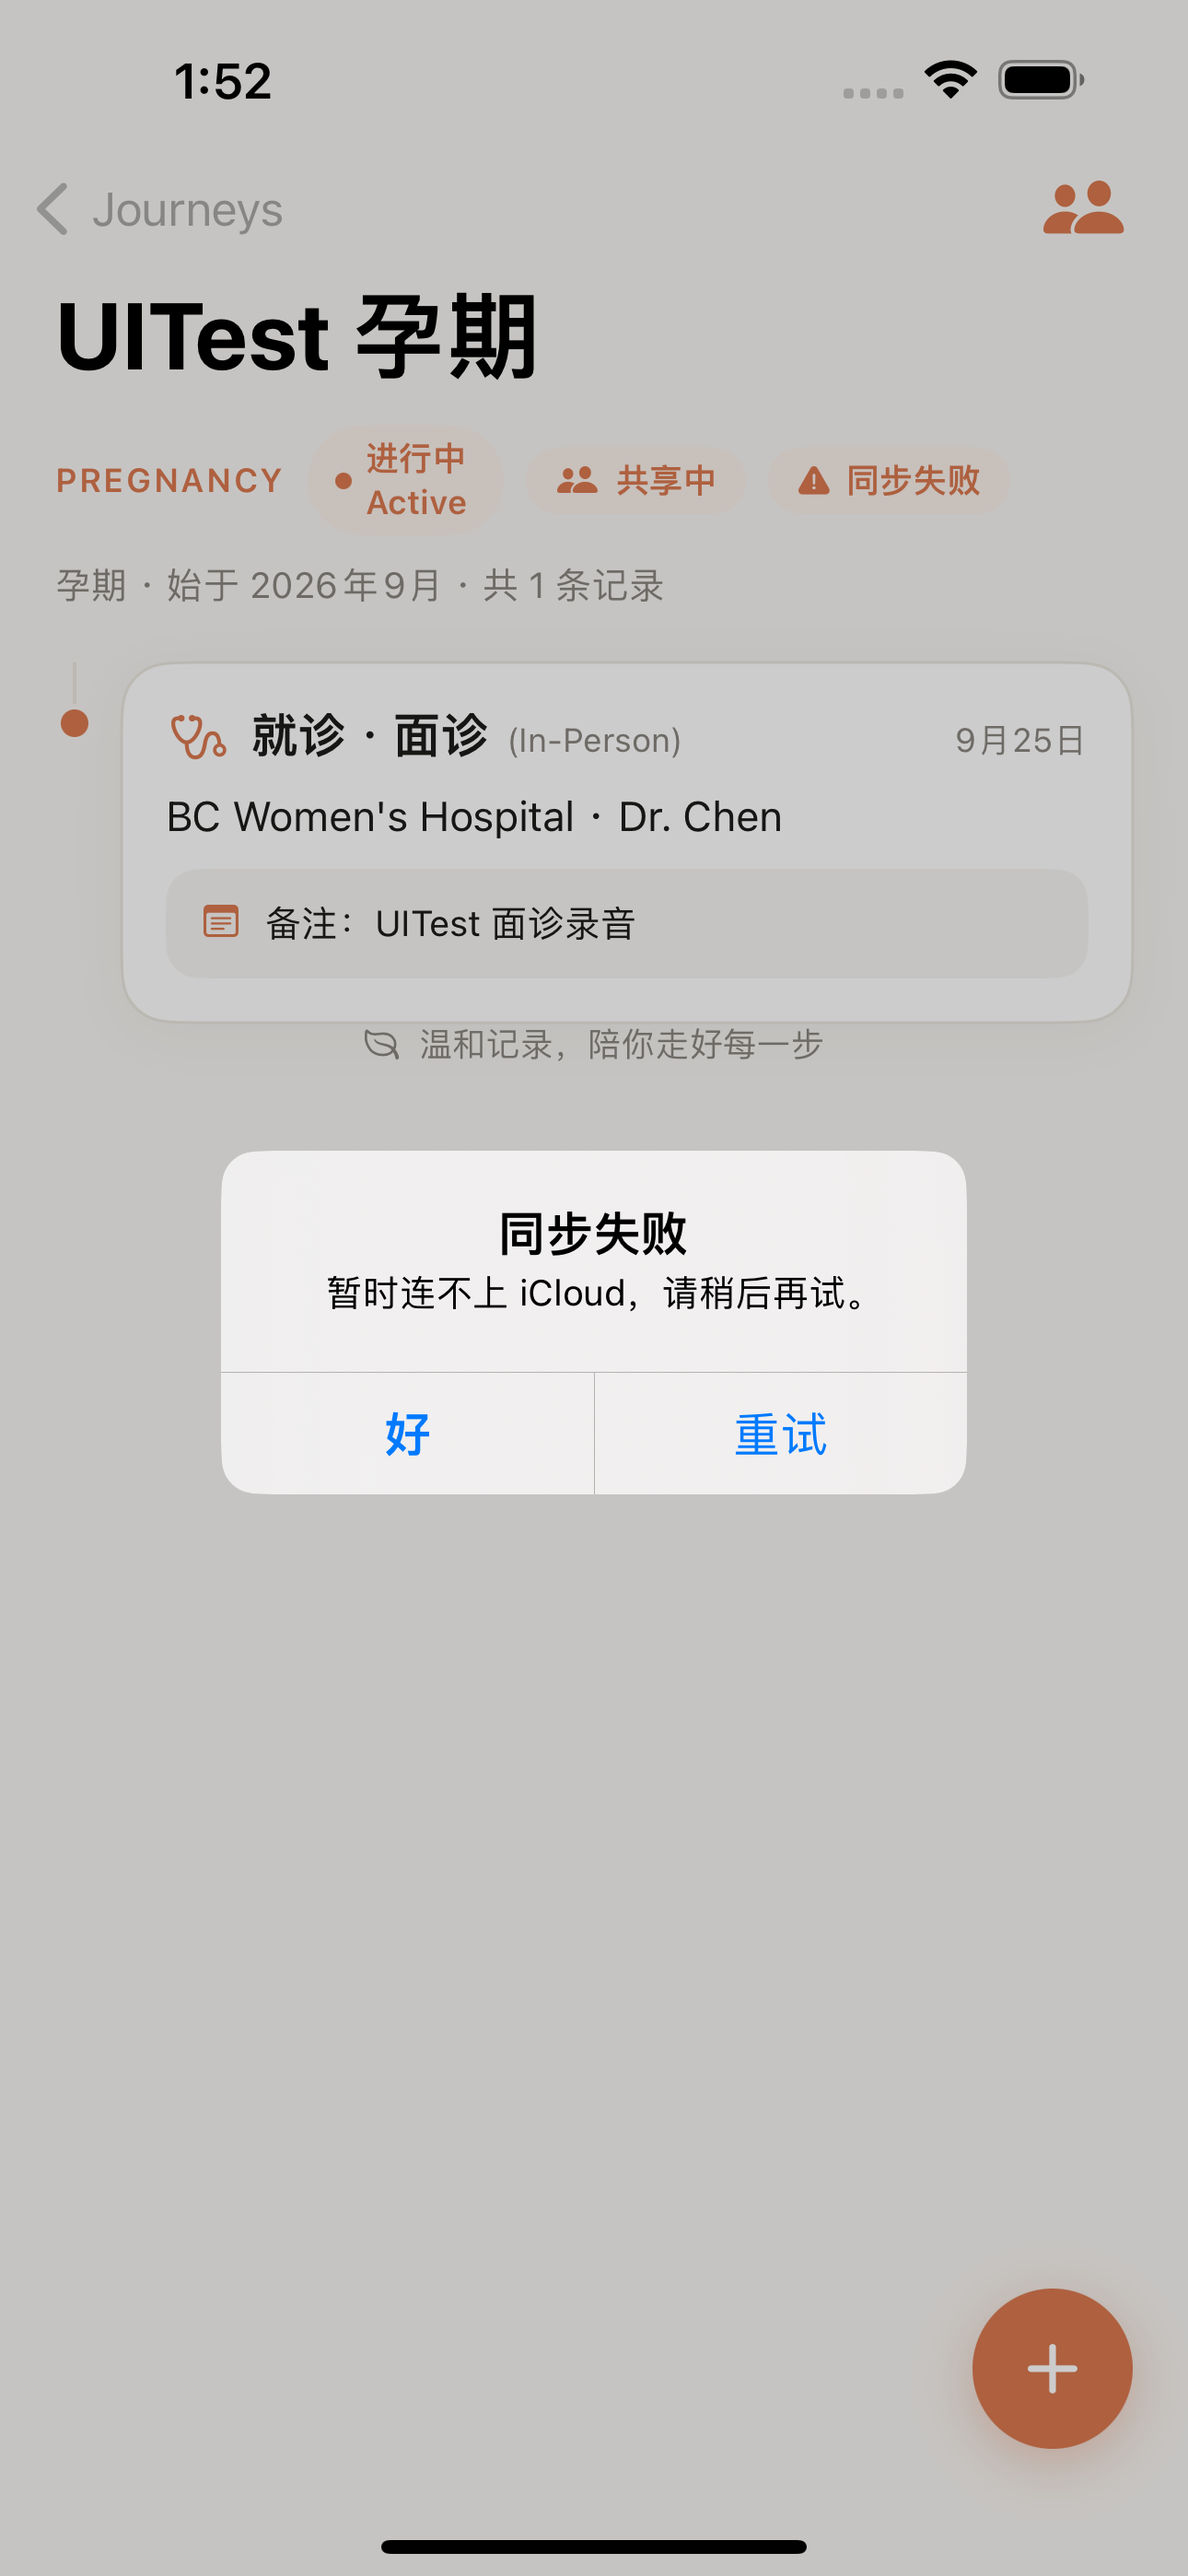
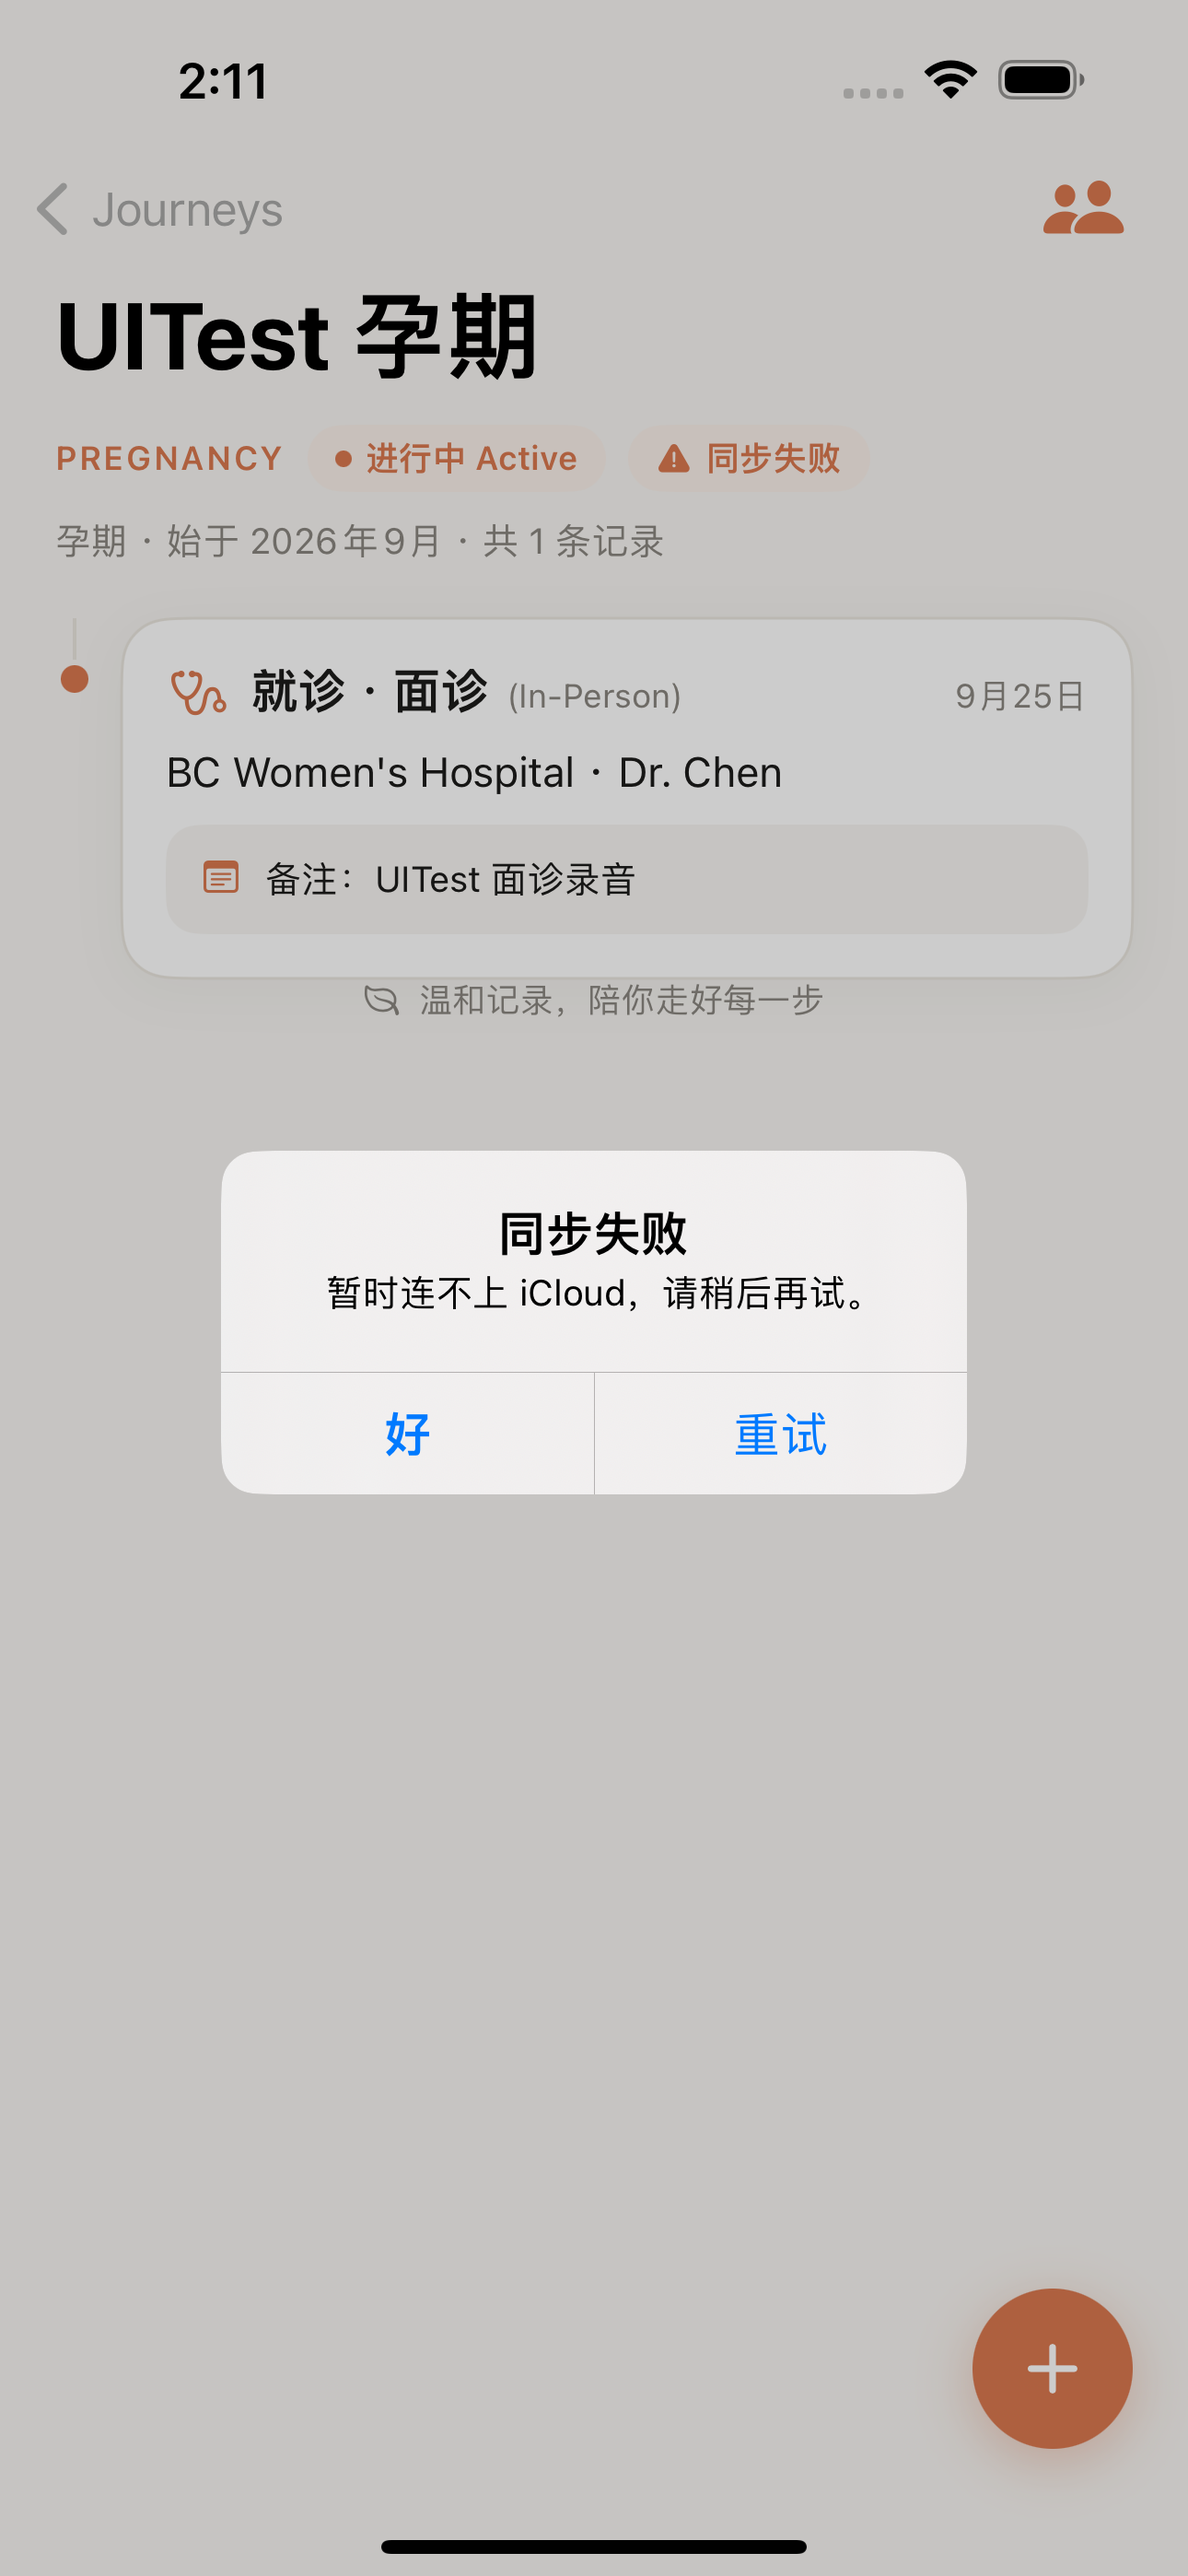
fix(T39): one calm pill, and a calmer sync cadence
Device feedback after the first working two-way share: the syncing
indicator beside 共享中 was a second flashing label, and rounds fired
too often.

- The share marker itself now carries the sync state: idle and quick
  successes read 共享中; a round still in flight after a 1.5 s grace
  delay swaps in 同步中 (most rounds finish inside the grace window and
  never touch the UI); a failed round swaps in 同步失败 with the reason
  and an immediate retry
- Local saves debounce 30 s instead of 3 s (activation, remote pushes
  and the manual retry remain immediate)

diff --git a/Carelogue/Views/ShareViews.swift b/Carelogue/Views/ShareViews.swift
@@ -3,84 +3,104 @@ import SwiftUI
 import SwiftData
 import UIKit
 
-/// "共享中 Shared" capsule — the share status marker (T39). Shown in the
-/// timeline header and tappable for the explanation sheet.
+/// The share marker capsule (T39), doubling as the sync state: idle and a
+/// quiet success both read 共享中; a round still in flight after the grace
+/// delay reads 同步中 (most rounds finish inside the delay and never touch
+/// the UI at all — no flashing); a failed round reads 同步失败 and opens the
+/// reason with a retry instead of the explanation sheet.
 struct ShareStatusPill: View {
-    var action: (() -> Void)?
-
-    var body: some View {
-        Button {
-            action?()
-        } label: {
-            HStack(spacing: 5) {
-                Image(systemName: "person.2.fill")
-                    .font(.caption2)
-                Text("共享中")
-            }
-            .font(.caption.weight(.semibold))
-            .foregroundStyle(Theme.accent)
-            .padding(.horizontal, 10)
-            .padding(.vertical, 5)
-            .background(Capsule().fill(Theme.accentTint))
-        }
-        .buttonStyle(.plain)
-        .accessibilityIdentifier("share.status")
-    }
-}
-
-/// Share-sync state beside the 共享中 marker (T39): a round in flight shows
-/// a quiet spinner; a failed round shows a tappable badge that explains and
-/// offers a retry. A successful round shows nothing here — calm stays the
-/// default; the info sheet carries the last-sync time.
-struct ShareSyncPill: View {
     let journey: Journey
+    var action: (() -> Void)?
 
     private let status = ShareSyncStatus.shared
     @State private var showingFailure = false
+    /// Sync-in-flight only shows after this grace period, so quick rounds
+    /// pass by unseen.
+    @State private var slow = false
 
     private var phase: ShareSyncStatus.Phase? { status.phases[journey.id] }
 
+    private var failureReason: String? {
+        if case .failed(let reason) = phase { return reason }
+        return nil
+    }
+
     var body: some View {
-        switch phase {
-        case .syncing:
+        Group {
+            if let failureReason {
+                failedPill(failureReason)
+            } else if isSyncing && slow {
+                syncingPill
+            } else {
+                sharedPill
+            }
+        }
+        .task(id: syncTick) {
+            slow = false
+            guard isSyncing else { return }
+            try? await Task.sleep(for: .seconds(1.5))
+            guard !Task.isCancelled else { return }
+            slow = true
+        }
+    }
+
+    private var isSyncing: Bool {
+        if case .syncing = phase { return true }
+        return false
+    }
+
+    /// Changes whenever the phase flips to/from syncing, re-running the
+    /// grace-delay task above.
+    private var syncTick: Bool { isSyncing }
+
+    private var sharedPill: some View {
+        pillLabel(icon: Image(systemName: "person.2.fill"), text: Text("共享中"),
+                  style: .accent) { action?() }
+        .accessibilityIdentifier("share.status")
+    }
+
+    private var syncingPill: some View {
+        pillLabel(icon: ProgressView().controlSize(.mini).tint(Theme.inkSecondary),
+                  text: Text("同步中"), style: .muted) { action?() }
+        .accessibilityIdentifier("share.status")
+    }
+
+    private func failedPill(_ reason: String) -> some View {
+        pillLabel(icon: Image(systemName: "exclamationmark.triangle.fill"),
+                  text: Text("同步失败"), style: .accent) { showingFailure = true }
+        .accessibilityIdentifier("share.sync")
+        .alert(String(localized: "同步失败"), isPresented: $showingFailure) {
+            // Retry runs right away — the debounced local-edit schedule
+            // would sit on it for half a minute.
+            Button(String(localized: "重试")) {
+                Task { @MainActor in
+                    if let context = CarelogueApp.modelContainer?.mainContext {
+                        await ShareChannel.syncAll(in: context)
+                    }
+                }
+            }
+            Button(String(localized: "好"), role: .cancel) {}
+        } message: {
+            Text(reason)
+        }
+    }
+
+    private enum PillStyle { case accent, muted }
+
+    private func pillLabel<Icon: View>(icon: Icon, text: Text, style: PillStyle,
+                                       action: @escaping () -> Void) -> some View {
+        Button(action: action) {
             HStack(spacing: 5) {
-                ProgressView()
-                    .controlSize(.mini)
-                    .tint(Theme.inkSecondary)
-                Text("同步中")
+                icon.font(.caption2)
+                text
             }
             .font(.caption.weight(.semibold))
-            .foregroundStyle(Theme.inkSecondary)
+            .foregroundStyle(style == .accent ? Theme.accent : Theme.inkSecondary)
             .padding(.horizontal, 10)
             .padding(.vertical, 5)
-            .background(Capsule().fill(Theme.insetFill))
-            .accessibilityIdentifier("share.sync")
-        case .failed:
-            Button {
-                showingFailure = true
-            } label: {
-                HStack(spacing: 5) {
-                    Image(systemName: "exclamationmark.triangle.fill")
-                        .font(.caption2)
-                    Text("同步失败")
-                }
-                .font(.caption.weight(.semibold))
-                .foregroundStyle(Theme.accent)
-                .padding(.horizontal, 10)
-                .padding(.vertical, 5)
-                .background(Capsule().fill(Theme.accentTint))
-            }
-            .buttonStyle(.plain)
-            .accessibilityIdentifier("share.sync")
-            .alert(String(localized: "同步失败"), isPresented: $showingFailure) {
-                Button(String(localized: "重试")) { ShareChannel.scheduleSync() }
-                Button(String(localized: "好"), role: .cancel) {}
-            } message: {
-                if case .failed(let reason) = phase { Text(reason) }
-            }
-        case .synced, nil:
-            EmptyView()
+            .background(Capsule().fill(style == .accent ? Theme.accentTint : Theme.insetFill))
         }
+        .buttonStyle(.plain)
     }
 }
 

diff --git a/CarelogueUITests/ShareUITests.swift b/CarelogueUITests/ShareUITests.swift
@@ -113,15 +113,17 @@ final class ShareUITests: CarelogueUITestCase {
         XCTAssertTrue(sheet.waitForExistence(timeout: 8), "No sharing options on screen")
     }
 
-    /// The sync badge (T39): a round in flight shows 同步中 beside the share
-    /// marker — on device there was no way to tell syncing from stuck.
+    /// The merged share/sync pill (T39): a round still in flight after the
+    /// grace delay replaces 共享中 with 同步中 in the same capsule — quick
+    /// rounds must not flash the UI at all.
     func testSyncBadgeShowsSyncing() {
         launch(["-uitest-reset", "-uitest-seed-visit", "-uitest-fake-share", "active",
                 "-uitest-sync-state", "syncing"])
         openSeededJourney()
 
-        waitFor(id("share.sync"))
-        XCTAssertTrue(element(containing: "同步中").exists)
+        // The grace delay passes while waiting; then the pill switches.
+        waitFor(element(containing: "同步中"))
+        XCTAssertTrue(id("share.status").exists)
         screenshot("T39-sync-syncing")
     }
 

diff --git a/Carelogue/Services/ShareChannel.swift b/Carelogue/Services/ShareChannel.swift
@@ -400,13 +400,15 @@ enum ShareChannel {
         }
     }
 
-    /// Debounced: local edits settle for a moment before anything is pushed.
+    /// Debounced: local edits settle for half a minute before anything is
+    /// pushed — the channel is calm by design (activation, remote pushes and
+    /// a manual retry still sync right away).
     @MainActor
     static func scheduleSync() {
         guard let syncContext else { return }
         syncTask?.cancel()
         syncTask = Task { @MainActor in
-            try? await Task.sleep(for: .seconds(3))
+            try? await Task.sleep(for: .seconds(30))
             guard !Task.isCancelled else { return }
             await syncAll(in: syncContext)
         }

diff --git a/Carelogue/Views/JourneyTimelineView.swift b/Carelogue/Views/JourneyTimelineView.swift
@@ -182,8 +182,7 @@ struct JourneyTimelineView: View {
                 }
                 StatusPill(status: journey.status)
                 if journey.isShared {
-                    ShareStatusPill { showingShareInfo = true }
-                    ShareSyncPill(journey: journey)
+                    ShareStatusPill(journey: journey) { showingShareInfo = true }
                 }
             }
             Text("\(journey.template.displayName) · 始于 \(journey.createdAt.yearMonth) · 共 \(journey.allLogs.count) 条记录")
